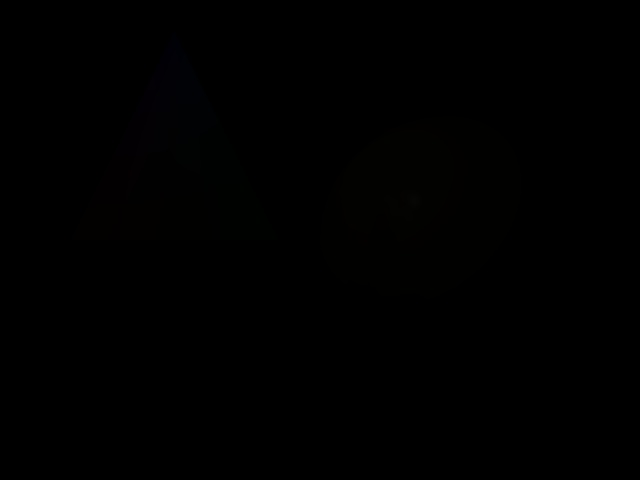
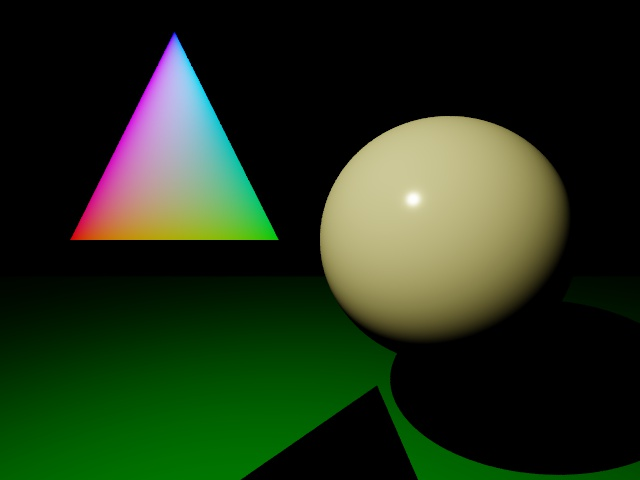
save jpg bugs fixed

diff --git a/assignment-3/hw3-starterCode/hw3.cpp b/assignment-3/hw3-starterCode/hw3.cpp
@@ -17,7 +17,7 @@ Timer timer;
 OpticalScene* scene = new OpticalScene();
 
 vector<Pixel> pixels;
-const int numOfThreads = 16;
+const int numOfThreads = 32;
 
 atomic_int numOfCompletedPixels = 0;
 
@@ -37,9 +37,9 @@ void save_jpg() {
 
 	for (auto& pixel : pixels) {
 		vec3 color = clamp(pixel.color * 255.0f, vec3(0.0f), vec3(255.0f));
-		buffer[pixel.index.y][pixel.index.x][0] = pixel.color.x;
-		buffer[pixel.index.y][pixel.index.x][1] = pixel.color.y;
-		buffer[pixel.index.y][pixel.index.x][2] = pixel.color.z;
+		buffer[pixel.index.y][pixel.index.x][0] = (int)color.x;
+		buffer[pixel.index.y][pixel.index.x][1] = (int)color.y;
+		buffer[pixel.index.y][pixel.index.x][2] = (int)color.z;
 	}
 
 	ImageIO img(WIDTH, HEIGHT, 3, &buffer[0][0][0]);
@@ -110,11 +110,11 @@ void drawPixels(int id) {
 }
 
 void draw_test() {
-	for (int i = 0; i < 12; i++) {
+	for (int i = 0; i < 1; i++) {
 		numOfCompletedPixels = 0;
 		scene->numOfSampleLights = 1;
 		scene->sampleLights();
-		scene->numOfSampleLights = 12;
+		scene->numOfSampleLights = 1;
 
 		std::vector<std::thread> threads;
 		for (int j = 0; j < numOfThreads; j++) {
